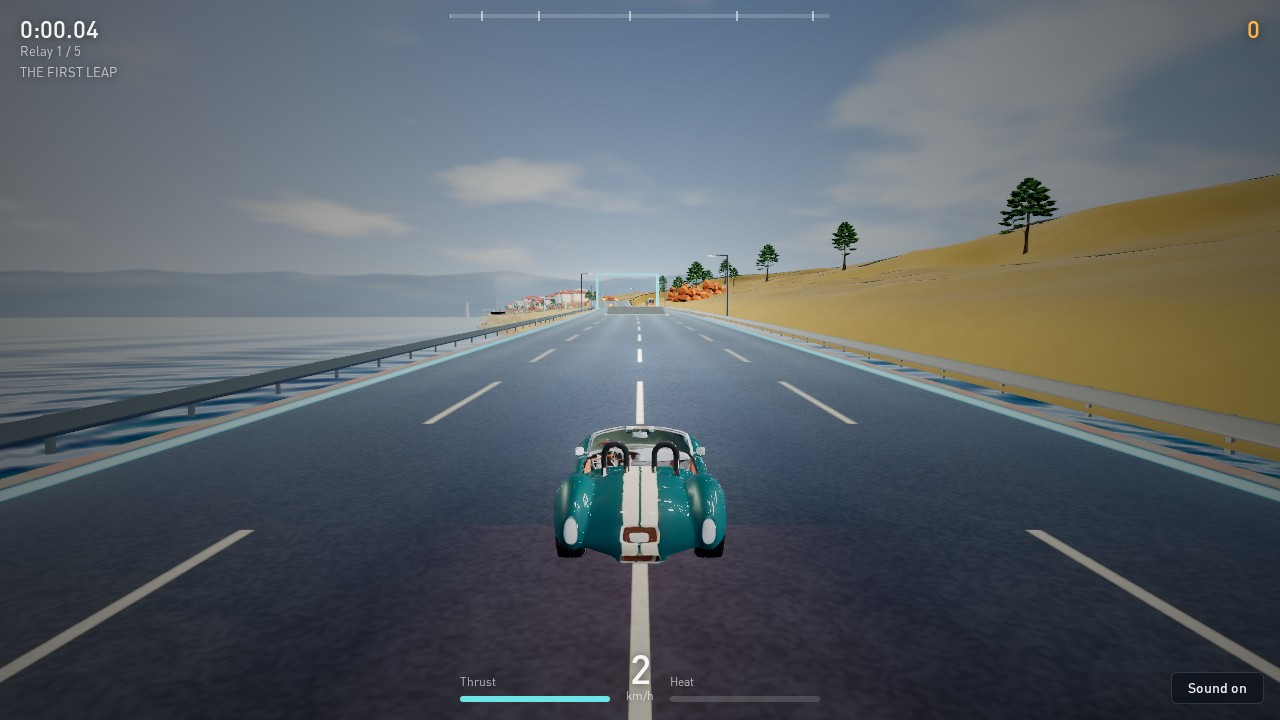
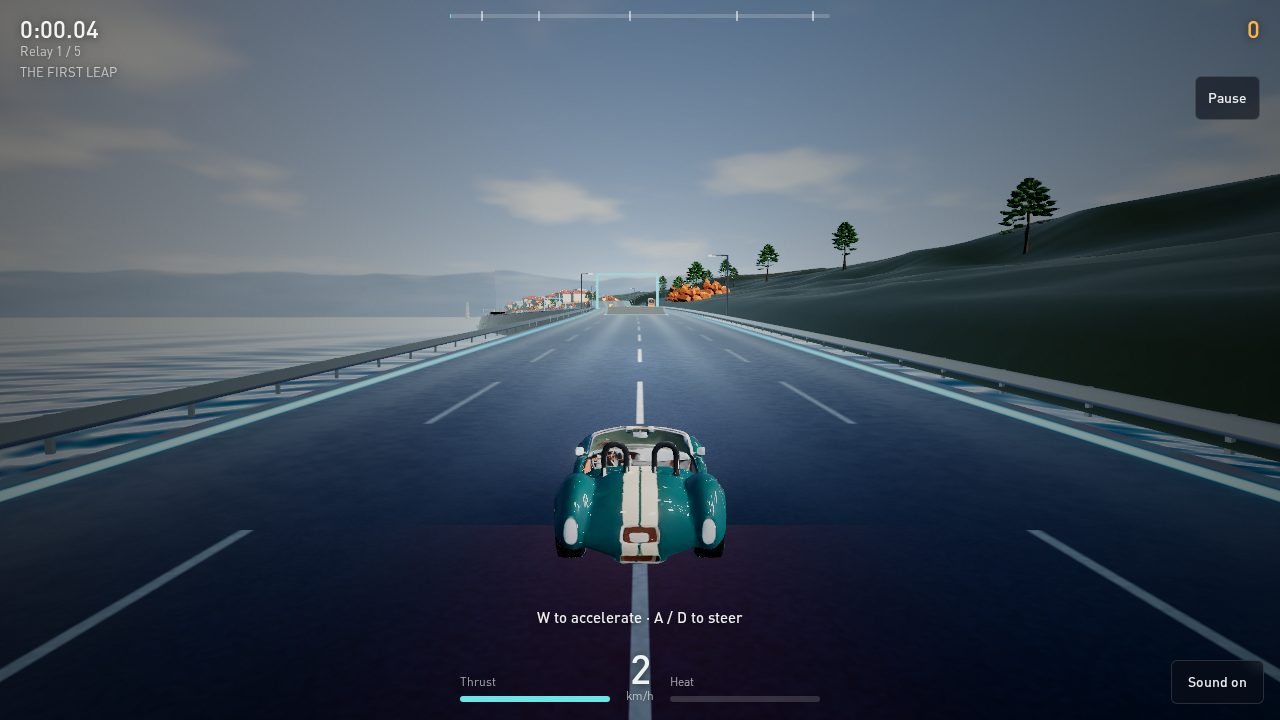
saltwind highway: retake the 4.5.0 evidence screens, before/after captures, lane G22 report
- screens/final: all ten frames retaken from the branch build (same names and sizes), metrics and README rewritten
- audit-fix evidence: base and branch screens, render, touch, sun-shadow and resize-band frames with meta.jsonl
- capture spec: viewport changes via setViewportSize, separate 1440x900 card page load
- docs/audits/lanes/g22.md: row status, remote runs, handoffs

diff --git a/tests/browser/audit-fix/roadster-hours-port.spec.ts b/tests/browser/audit-fix/roadster-hours-port.spec.ts
@@ -120,21 +120,16 @@ test.describe("roadster-hours-port audit fix (G22)", () => {
     }
     log(`RH_META ${JSON.stringify({ name: "textures-settled", waitedMs: Date.now() - texStart, ...(await probe(page)) })}`);
 
-    const cdp = await page.context().newCDPSession(page);
-    const phone = async (): Promise<void> => {
-      await cdp.send("Emulation.setDeviceMetricsOverride", { width: 390, height: 844, deviceScaleFactor: 1, mobile: true });
-      await cdp.send("Emulation.setTouchEmulationEnabled", { enabled: true, maxTouchPoints: 5 });
-      // The page picks touch controls from (pointer: coarse) at load; a phone frame shows them (no effect on the base build).
-      await page.evaluate(() => { document.body.classList.add("touch"); window.dispatchEvent(new Event("resize")); });
+    // Viewport changes on the same page (the texture upgrade takes minutes per page load on software GL). Playwright's own
+    // viewport wins over CDP metrics overrides, so phone and card frames use setViewportSize. The phone frame adds the
+    // `touch` class the page sets from (pointer: coarse) at load (no effect on the base build).
+    const size = async (width: number, height: number, touch: boolean): Promise<void> => {
+      await page.setViewportSize({ width, height });
+      await page.evaluate((t) => { document.body.classList.toggle("touch", t); window.dispatchEvent(new Event("resize")); }, touch);
       await page.waitForTimeout(800);
     };
-    const desktop = async (): Promise<void> => {
-      await cdp.send("Emulation.setTouchEmulationEnabled", { enabled: false });
-      await cdp.send("Emulation.clearDeviceMetricsOverride");
-      await page.setViewportSize({ width: 1280, height: 720 });
-      await page.evaluate(() => { document.body.classList.remove("touch"); window.dispatchEvent(new Event("resize")); });
-      await page.waitForTimeout(800);
-    };
+    const phone = (): Promise<void> => size(390, 844, true);
+    const desktop = (): Promise<void> => size(1280, 720, false);
 
     await shot(page, "title.1280x720");
     await phone();
@@ -153,11 +148,10 @@ test.describe("roadster-hours-port audit fix (G22)", () => {
     await shot(page, "key-drive.390x844");
     await desktop();
 
-    // Card frame: 720x450 at 2x, 1.29 s into the run.
+    // Card state: 1.29 s into the run.
     await beginAndStep(page, 324 + 155);
-    await cdp.send("Emulation.setDeviceMetricsOverride", { width: 720, height: 450, deviceScaleFactor: 2, mobile: false });
-    await page.evaluate(() => window.dispatchEvent(new Event("resize")));
-    await page.waitForTimeout(800);
+    // Card frame: the published card is 1440x900 (16:10); taken at a 1440x900 viewport (device scale 1 on this page).
+    await size(1440, 900, false);
     await shot(page, "card.2x.1440x900");
     await desktop();
 
@@ -180,6 +174,25 @@ test.describe("roadster-hours-port audit fix (G22)", () => {
     const tap = await recoverTap(page);
     log(`RH_META ${JSON.stringify({ name: "c1-recover-tap", ...tap })}`);
     log("RH_DONE screens");
+  });
+
+  test("card", async ({ page }) => {
+    // The card frame loads at 1440x900 from the start: growing the window after load leaves the old backing size on screen
+    // (handoff to E1 in docs/audits/lanes/g22.md).
+    await page.setViewportSize({ width: 1440, height: 900 });
+    await page.goto(`${server.origin}/examples/roadster-hours-port/?manual=1&level=0`, { waitUntil: "domcontentloaded" });
+    await waitReady(page);
+    const texStart = Date.now();
+    while (Date.now() - texStart < TEXTURE_WAIT_MS) {
+      const t = await page.evaluate(() => (window as unknown as { __AURA_ROADSTER_HOURS__: Hooks }).__AURA_ROADSTER_HOURS__.textures?.() ?? null);
+      if (!t || (t.pending === 0 && t.textured > 0)) break;
+      await api(page, "renderNow");
+      await page.waitForTimeout(5000);
+    }
+    await beginAndStep(page, 324 + 155);
+    await page.waitForTimeout(20_000);
+    await shot(page, "card.2x.1440x900", { waitedMs: Date.now() - texStart });
+    log("RH_DONE card");
   });
 
   for (const level of [0, 2]) {

diff --git a/docs/audits/lanes/g22.md b/docs/audits/lanes/g22.md
@@ -1,0 +1,73 @@
+# Lane G22: Saltwind Highway (`roadster-hours-port`)
+
+Branch `audit-fix/g22`, cut from `audit-fix/integration` (b2dba3713). App `apps/showcase-roadster-hours-port` mounts `examples/roadster-hours-port/main` (3-line `src/main.ts`); no other live game imports `examples/roadster-hours-port` (`rg` over `apps/`), so the lane owns both.
+
+All browser numbers come from the remote runner (Azure ACR Tasks, headless Chromium, software WebGL2 / SwiftShader, not a GPU). Evidence: `evidence/roadster-hours-port/audit-fix/` (`before-*` = base build, `after-*` = this branch; `meta.jsonl` per run, frames as JPEG; `decode.mjs` rebuilds them from a run log). Steady-state numbers use the later shots of a fixed sim state, never the first frame.
+
+## Rows
+
+| Row | Status | Commit | Evidence |
+|---|---|---|---|
+| C1 (P1) one R tap recovers about 12 times | done | 0ba61efcf | `input.ts` `runInput` reads `recover` from `InputState.tapped` (edge). Unit: `input.test.ts` "a 100 ms R hold (12 steps) recovers once and costs 150 points once" (crashes 1, score 1250 to 1100). Remote, real keyboard path, 12-step hold: base crashes 0 to 12, branch 0 to 1 (`g22-before-screens3`, `g22-after-screens3`, `c1-recover-tap`). |
+| C2 (P1) no touch controls | done | 0ba61efcf, fd868fd16 | Nine on-screen buttons under `(pointer: coarse)` (or `?touch=1`), 48 to 76 px, safe-area insets, bound with `bindGameTouchControls` to virtual `touch:<action>` codes (immune to key remapping); toasts and coach name the buttons ("TAP RECOVER"). Remote 390x844 `hasTouch/isMobile`: base has no touch buttons; branch: holding Drive for 240 steps took speed 0.65 to 30.5 m/s, one tap on Recover gave crashes 0 to 1 (`g22-before-render2` vs `g22-after-touch2`, `after-touch/touch-driving.390x844.jpg`). Unit: `input.test.ts` touch block. |
+| C3 (P2) procedural lighthouse and town under the Meshy models | done | 0ba61efcf | The seven procedural tiers and the plaster `town` are built only when the models are missing; the rock island stays. Unit: `world-dedupe.test.ts`. Remote with models: landmark nodes 12 to 4; draw calls 121 to 105 at the title and 104 to 88 at mid-drive (`g22-before-screens3` vs `g22-after-screens3`); sun-shadow spec draws 71/121 (shadow off/on) on base vs 63/105 on the branch (`g22-before-sunshadow`, `g22-after-regress`). |
+| C4 (P2) finish fanfare never plays | done | 0ba61efcf | Sim events of every step are queued and drained by the next rendered frame whatever the screen, so the completing step's `finish` event plays on the results screen. Unit: `audio.test.ts` "the step that completes the run yields the finish cue". Remote cue log after an autopilot finish ends with `{ sounds: ["finish"] }` on the results screen (`g22-after-render`, `finish-cues`). |
+| C5 (P2) nitro window not drawn, coach hints not shown | done | 0ba61efcf | `hud.ts` `coachLine` ports the original's priority order (nitro window, gap, ramp, jump line, full-tank shockwave, act hint); thrust bar turns green and pulses with the label "Tap now" (text plus colour). Unit: `hud.test.ts`. Remote: coach text present on every play frame ("Ramp ahead · Space to launch", "Nitro full · double-tap Shift for a shockwave"). The green window itself was not caught in a remote frame (it lasts 0.4 s of a nitro). |
+| C6 (P2) many events silent | done (listening not done) | 0ba61efcf | `eventCues` maps every sim event (scrape, impact, overheat, trick, roll, hop, trailer, shortcut, nitro 1/2/3, non-clean landing, flare, missed relay) to a cue, once per frame; 14 new cue specs. Unit: `audio.test.ts`, `audio-cues.test.ts`. Remote cue log shows `hop`, `flare`, `nearmiss`, `clear`, `landing`, `gate`, `cell`, `boost` firing during an autopilot run. A person listening to the new cues is an owner-side check; it was not done. |
+| C8 (P2) music clusters in a hidden tab | done | 0ba61efcf | `musicSteps` skips steps already in the past (restart 50 ms ahead); the AudioContext suspends while the tab is hidden or the run is paused. Unit: `audio.test.ts` "skips steps that are already late". Not exercised in a remote browser (headless pages are never hidden). |
+| C9 (P2) stale public copy | done (game side), catalog handed off | 0ba61efcf | Credit line, app meta description, `package.json` description, `route-health.json` limits and evidence rewritten from the code: 33 to 35 vehicles per route (counted from `buildWorld`), one batched mesh per vehicle model, sun shadows, generated models. `tools/site/games.catalog.json` and `tools/showcase-port-pages/names.json` are not lane-owned: handoff. `marketing/scripts/check-site.mjs` not run (no marketing file changed). |
+| C7 (P2) rigid chase camera | done | 0ba61efcf | `camera.ts`: road-frame smoothing (eye 9, look 12, fov 4 per second; world-space lag would trail a 70 m/s car by metres), cut on begin and recover, the original's per-event trauma and FOV-kick table, off under reduced motion. Unit: `camera.test.ts` (a 1.8 m hazard push moves the eye under 0.3 m in one 60 Hz frame instead of 1.44 m). |
+| C11 (P3) deprecated options, bloom threshold | partly done | 0ba61efcf | `renderer: { mode, qualityProfile, fallback }` removed, `quality: "auto"` pinned. `bloom.radius` stays: `effects.bloom` neither types nor stores `scatter` (`effects.post.ts`), so the migration would silently change the bloom to the v2 default scatter 0.7; handoff to E2. Threshold kept below HDR white on purpose (it makes the lamps, cells and gates bloom); the default-vs-production capture shows no measurable bloom difference (RP-05 row). |
+| C12 (P3) no reduced motion, remapping, pause button, auto-pause; 32 px buttons | done | 0ba61efcf | HUD pause button, auto-pause on blur and `visibilitychange` (not in `?manual=1` QA mode), "Motion: full/reduced" switch (defaults to `prefers-reduced-motion`, saved), "Change keys" panel with saved remapping, buttons and route links `min-height: 44px`. Unit: `input.test.ts` remap block, `camera.test.ts` reduced motion. Remote: pause button visible on every play frame. |
+| C13 (P3) best times not saved; Next route reloads | done | 0ba61efcf | Results saved to `localStorage`, best shown on the menu and compared on the results card. Next route rebuilds the scene in place (`app.setScene`, `history.replaceState`; reload only as fallback). Unit: `hud.test.ts` best block. Remote: results card "First finish on this route", storage holds `sunbreak` 48.32 s; Next route switched to Redline Canyon without navigation (URL `?manual=1&meshy=0&level=1`, no `autostart`), 40.7 s on software GL; the Redline frame has mean luma 33.5, std 39.7 and 336 colour buckets (`after-render/next-route-redline.jpg`). |
+| C14 (P3) per-frame allocations and DOM writes | done | 0ba61efcf | One scratch matrix per world (`matrixFor(..., out)`), reused view object and traffic copies (`viewOf(..., out)`), two swapped audio frames, HUD writer that touches the DOM only on change. Unit: `world-dedupe.test.ts` matrix test, `hud.test.ts` writer test, `presentation.test.ts`. Not measured as frame time (software GL). |
+| C15 (P3) fixed 1.5 s loading delay | done | 0ba61efcf | `warmPrograms` (precompile, stable draw count, texture wait capped 6 s, HDRI wait 2 s) replaces the loop. On software GL the textures still take about 9.5 min to settle (`waitedMs` 547,449 base, 565,637 branch), so the cap decides there. |
+| Tests gap: no 4.5.0 capture (RP-05 game side, LIGHT-02 game side) | done | badf918ca | `?meshy=0`, same sim state, two later shots per mode: default against `?aura3d-render=production` mean luma differs by -1.2 to +1.8 of 255 on Sunbreak Coast and Halo Skyway, on both builds, while two shots of one mode differ by 2.5 to 5.9 mean absolute luma (animated sea, sky, particles). `renderPath` reads `hdr-msaa / auto / separable` (production: `bloomFusion: "off"`). Mid-drive steady state with the models (three shots 20 s apart, same sim state): base 87.6 / 87.7 / 86.5, branch 86.9 / 87.7 / 85.6. A 4.3.7 build was not captured; the `game-luma-capture` TARGETS row is a handoff (E5 owns the spec). |
+| RH-04 upgrade-guide checkboxes | done | badf918ca | `docs/upgrade-4.5.0/roadster-hours-port.md`: 8 of 9 boxes closed with numbers; the `OPTION_IGNORED` box stays open (the capture could not find the warnings list in `diagnostics()`). |
+| RH-05 evidence screens | done | see below | All 10 files of `evidence/roadster-hours-port/screens/final` retaken from the 4.5.0 branch build with the generated models textured, same names and pixel sizes (390x844, 1280x720, 1440x900, 720x450); `metrics.jsonl` and `README.md` rewritten. Index posters are deployed site assets (E5). |
+| Tests gap: unit tests for keyboardInput, pause, restart, step-to-results | done | 0ba61efcf, badf918ca | `input.test.ts`, `flow.test.ts` (pause freezes the sim, restart), `audio.test.ts` (step-to-results cue). |
+| SI-1 instanced scenery cascade | owned by E3 | | Not changed here. Related pre-existing defect found: see handoff 6. |
+| RP-04 URL typo stops mount | owned by E1 | | |
+| Tests gap: real-GPU frame time | not done | | Needs real GPU hardware; the runner is SwiftShader. |
+| LIGHT-01, LIGHT-03 | not a defect for this game | | The game authors `environments.preset(...)` (`world.ts`), so it is not a lights-only port, and it has no hemisphere light. |
+| RH-06 shared asset catalog | not a defect for this game | | `apps/showcase-roadster-hours-port/src/main.ts` imports only `showcase-port-shared/diag` and the example; the example loads its own baked models from `examples/roadster-hours-port/assets/meshy` and never imports `src/aura-assets`. |
+| RH-07 trademark identifiers | not a defect for this game | | The release audit names only serpentine-sky-run-port and cloud-runner-port; this game's live strings are neutral (`group-c-visible-strings.test.ts` passes). |
+
+## Screens (RH-05)
+
+Taken from runs `g22-after-screens3` (title, gameplay-early, key-drive, mid-drive, results at 1280x720 and 390x844) and `g22-after-card` (card at a 1440x900 viewport; `card.1x.jpg` is that frame downscaled to 720x450). The matching base-build frames are in `evidence/roadster-hours-port/audit-fix/before-screens/` (`g22-before-screens3`). Every frame was opened and looked at: the textured roadster, generated trees, rocks, houses and the one lighthouse render; the HUD shows the pause button and coach line; the phone play frames show the nine touch buttons above the safe area.
+
+Not used: `g22-before-screens` and `g22-after-screens2` changed the viewport with CDP device-metrics overrides, which Playwright's own viewport overrode, so their phone and card frames came out 1280x720. The card frames of the `screens3` runs are not used either: growing the page from 1280x720 to 1440x900 after load left the old backing size on screen (black right and bottom bands, mean luma 13.7 against 86.8) on both builds (handoff 7), so the card got its own page load at 1440x900 (`g22-after-card`).
+
+## Checks
+
+- `node tools/game-checks/run.mjs roadster-hours-port`: 0 errors, 0 warnings.
+- `pnpm exec vitest run tests/unit/roadster-hours-port`: 13 files, 161 tests pass (also `tests/unit/game-names/group-c-visible-strings.test.ts` and `tests/unit/port-kit-migration/fixed-step-equivalence.test.ts`).
+- `tsc -p apps/showcase-roadster-hours-port/tsconfig.json --noEmit` clean; `tsc -p tsconfig.check.json --noEmit` 58 errors, the baseline (none in lane files).
+- `tests/browser/roadster-hours-port.spec.ts` passes on the branch (`g22-after-regress`). `tests/browser/port-sun-shadows-roadster-hours.spec.ts` fails on the base and on the branch with the same numbers (handoff 6).
+
+## Remote runs
+
+All on `tools/remote-acr/run.sh` (az-auraone-gurbaksh, `CONTEXT_PROFILE=slim`), base = `/tmp/before-g22` worktree at `audit-fix/integration` with the lane spec copied in (removed afterwards).
+
+- `g22-before-render`: infrastructure failure (`|` in `--grep` broke the ACR task arguments); rerun as `g22-before-render2`.
+- `g22-before-render2` (base): render default/production on levels 0 and 2, touch; 5 passed.
+- `g22-before-screens` (base): passed; superseded (viewport method).
+- `g22-after-render` (branch): render default/production on levels 0 and 2, finish cues and next route in place, touch; 6 passed.
+- `g22-after-screens` (branch): the local client was killed mid-stream; ACR run `ch5f2` cancelled; no data used.
+- `g22-after-screens2` (branch): passed; superseded (viewport method).
+- `g22-after-touch2` (branch): touch with a real tap on Recover; passed.
+- `g22-after-regress` (branch): `roadster-hours-port.spec.ts` passed; `port-sun-shadows-roadster-hours.spec.ts` failed (same on base, handoff 6).
+- `g22-before-sunshadow` (base): `port-sun-shadows-roadster-hours.spec.ts` failed with the same numbers.
+- `g22-before-screens3` (base), `g22-after-screens3` (branch): screens and C1/C3 probes; passed.
+- `g22-after-card` (branch): card frame at 1440x900; passed.
+
+## Handoffs
+
+1. **E5**, `tools/site/games.catalog.json` (Saltwind Highway entry, `text`, line 229): replace with "Coastal highway drive with jumps, traffic and relay gates. 33 to 35 vehicles per route, one batched mesh per vehicle model, with sun shadows; a recorded 6,124-step run replays to the original's final state." Why: C9, the current text says 92 vehicles in one batched mesh and no shadows, both wrong (`buildWorld` counts 35/35/33; `world.ts` sun has `shadow: { cascades: 1, maxDistance: 90 }`).
+2. **E5**, `tools/showcase-port-pages/names.json` (`roadster-hours` `pitch`): "Coastal highway drive with jumps, traffic and relay gates: 33 to 35 vehicles per route in batched meshes, with sun shadows, sky and ocean." Why: C9, same stale count; it matches the app meta description and `package.json` now.
+3. **E5**, `tests/browser/game-luma-capture.spec.ts` TARGETS: add `{ name: "saltwind-sunbreak", url: "/apps/showcase-roadster-hours-port/?level=0&autostart=1&autopilot=1" }` and `{ name: "saltwind-halo", url: "/apps/showcase-roadster-hours-port/?level=2&autostart=1&autopilot=1" }`. Why: LIGHT-02 asks for every game in the harness; this lane's own spec has the per-game numbers. The harness READY probe (`dataset.aura3dReady` or `__AURA3D_LIVE_APPS__`) is untested on this game; `window.__AURA_ROADSTER_HOURS__.ready` is the game's own flag.
+4. **E5**, touch-input game-check (cross-cutting): this game now has `#touch-*` buttons bound through `bindGameTouchControls`; the check can use it as a passing case.
+5. **E2** (owner of the post factories), `packages/engine/src/agent-api/nodes/effects.post.ts` `postEffectBuilders.bloom` and the `AuraEffectNode` type: accept `scatter` and copy it into the node (`...(options.scatter !== undefined ? { scatter: options.scatter } : {})`). Why: C11, `mapBloomOptionsV2` reads `scatter` but the factory drops it and the type rejects it, so no game can migrate off the deprecated `radius` without its bloom changing to the default scatter 0.7. Once that lands, this game changes `radius` to `scatter` in `look.ts` and `world.ts` (same values).
+6. **E3**, sun shadow on `material.custom` terrain (`a3dSunShadowAuto`): with `?shadow=1` the frame darkens far more than the casters explain (mean luma 96.3 to 77.4 on the base, 96.4 to 77.2 on the branch; `port-sun-shadows-roadster-hours.spec.ts` fails on both, limit is a 4-luma drop). Likely SI-1: the single 90 m cascade is picked per draw from the node, and the terrain flanks are single draws spanning the whole route. Frames: `evidence/roadster-hours-port/audit-fix/sun-shadow-{before,after}/`. Why: pre-existing, not a lane row; the fix belongs to the cascade selection.
+7. **E1**, `packages/engine/src/agent-api/app/frameLoop.ts` authored-backing resize (`authoredBackingResize`, `renderer.resize`): with `resize: false` and a game that resizes its canvas on `window.resize` (this game, also heatsink-port and drift-and-deliver-port), growing the window after load (1280x720 to 1440x900) leaves the frame at the old size in the top-left with black bands (mean luma 13.7 in the bands against 86.8 inside, base and branch: `evidence/roadster-hours-port/audit-fix/resize-band/`, runs `g22-before-screens3` and `g22-after-screens3`). Why: a player rotating a tablet or leaving split view gets a partly black screen; shrinking is fine. The game-side fix would be to drop its own sizing and use `resize: true`, but that changes the backing ratio contract (the game caps at 1.5x device pixels while passing `pixelRatio: 1`), so it waits for the engine behaviour.

diff --git a/evidence/roadster-hours-port/screens/final/README.md b/evidence/roadster-hours-port/screens/final/README.md
@@ -1,31 +1,28 @@
-# Saltwind Highway: final screenshots (after the UI and render fixes)
+# Saltwind Highway: final screenshots (4.5.0 build, audit fix 2026-10-29)
 
-- **Build:** `origin/game-rework` at `0d965903c` (examples dev server, QA hooks). Capture: `tests/browser/finc-lib.ts` + `finc-games.ts` (`SALT`, `SALT_KEY`), decoder `tools/shots/decode-finc.mjs`; numbers in `metrics.jsonl`.
-- **Runner:** serverless ACR Chromium, **software WebGL2 (SwiftShader), not a GPU**. These frames are not real-GPU evidence.
-- **Method:** the route is the examples page, driven through `window.__AURA_ROADSTER_HOURS__`. Textures upgrade one material at a time after mount (tens of seconds each on SwiftShader), so every capture waited until `textures()` reported 0 pending (68 rows, 15 textured): 942 to 1646 s per page. The title frames were retaken after the same wait, because a first pass at the ready flag still showed white trees. Every frame was opened and looked at.
-- **Checks:** the title card reads "Saltwind Highway" with the "independent game built with Aura3D" line; no old name, "port" or lore term in any visible text; 0 console errors, 0 bad responses.
+- **Build:** `audit-fix/g22` (Aura3D 4.5.0 engine from the workspace, examples dev server, QA hooks). Capture: `tests/browser/audit-fix/roadster-hours-port.spec.ts` (`screens` and `card` tests), decoder `evidence/roadster-hours-port/audit-fix/decode.mjs`; numbers in `metrics.jsonl` (one JSON object per frame: sim state, draw calls, render path, canvas luma from the game's `stats()` read-back).
+- **Runner:** serverless ACR Chromium, **software WebGL2 (SwiftShader), not a GPU**. Runs `g22-after-screens3` and `g22-after-card`. These frames are not real-GPU evidence.
+- **Method:** `?manual=1&level=0`, so the sim only advances through `stepSteps` and every state is reproducible. Each page waited until `textures()` reported 0 pending (about 9.5 minutes on this runner) before the first frame. Phone frames come from the same page resized to 390x844 with the touch class the page sets on a coarse pointer. The card frame loads at 1440x900 from the start (resizing a page larger after load leaves the old backing size on screen; handed off to E1).
+- **Before/after:** the same states on the base build are in `evidence/roadster-hours-port/audit-fix/before-screens/`.
 
 ## States
 
 | File | State |
 |---|---|
-| `title.1280x720`, `title.390x844` | title card, textures settled (green trees, textured car) |
-| `gameplay-early.*` | run begins, countdown "3" |
-| `key-drive.*` | 330 autopilot steps: the countdown is over and the car has just launched (0:00.04, 2 km/h) |
-| `mid-drive.1280x720` | 1440 more steps: 199 km/h, Relay 2 / 5 "Break the horizon", 1,228 points |
-| `results.1280x720` | "Silver Medal" card (time 0:48.32, score 26,949, data cells 1 / 9, 0 crashes), reached by driving the route with the autopilot to the end |
-| `card.2x.1440x900`, `card.1x` | 720x450 card frame, 72 km/h, 1.29 s into the run; the 1x image is the 2x frame downscaled in the page |
+| `title.1280x720`, `title.390x844` | title card after the texture settle: route picker, key summary, "Change keys" and "Motion" switches, corrected credit line |
+| `gameplay-early.*` | run begins, countdown "3"; pause button in the HUD; touch buttons on the phone frame |
+| `key-drive.*` | 330 autopilot steps: launch moment (0:00.04, 2 km/h); coach line "W to accelerate · A / D to steer" (button names on the phone frame) |
+| `mid-drive.1280x720` | 330 + 1440 steps: 217 km/h, Relay 2 / 5 "Break the horizon", 1,503 points, "CLEAN LANDING"; third of three shots 20 s apart (draw calls 88; mean luma 86.9, 87.7, 85.6) |
+| `results.1280x720` | Silver Medal, 0:48.32, 26,949 points, 1 / 9 data cells, 0 crashes, "First finish on this route" |
+| `card.2x.1440x900`, `card.1x` | 1.29 s into the run at 71 km/h, 1440x900 viewport; the 1x image is the 2x frame downscaled to 720x450 |
 
-Mobile (390x844) has title, `gameplay-early` and `key-drive`.
+## Changes visible against the previous set (0d965903c)
 
-## Fixed since the first retake (confirmed in frames)
-
-- The white car and white trees are gone once textures have settled (teal car with a white stripe, green trees).
-- The mobile layout no longer overlaps: the title card, HUD and controls stack cleanly.
+- One lighthouse and one town: the procedural tiers and plaster town no longer render under the generated models (draw calls at the title 121 to 105).
+- HUD pause button and coach line; touch controls on the phone frames; credit line no longer says the cars are CC0 models.
 
 ## Problems still visible
 
-1. **Low-medium:** the white-car state returns whenever a frame is taken before the texture pass finishes (15 to 27 minutes on software GL); on a real GPU the window should be much shorter but was not measured.
-2. **Low (likeness review):** the car reads as a classic cobra-style roadster (teal with white stripes). It carries no brand marks, but the silhouette is a familiar real one.
-3. **Low:** `key-drive` shows the launch moment (2 km/h); `mid-drive` and the card show real motion.
-4. **Low:** a heavy white exhaust trail sits under the car in the card and `mid-drive`.
+1. **Low:** a heavy white exhaust trail sits behind the car at speed (`mid-drive`, card).
+2. **Low:** `key-drive` shows the launch moment (2 km/h), as before.
+3. **Low (likeness review):** the car still reads as a classic cobra-style roadster.
